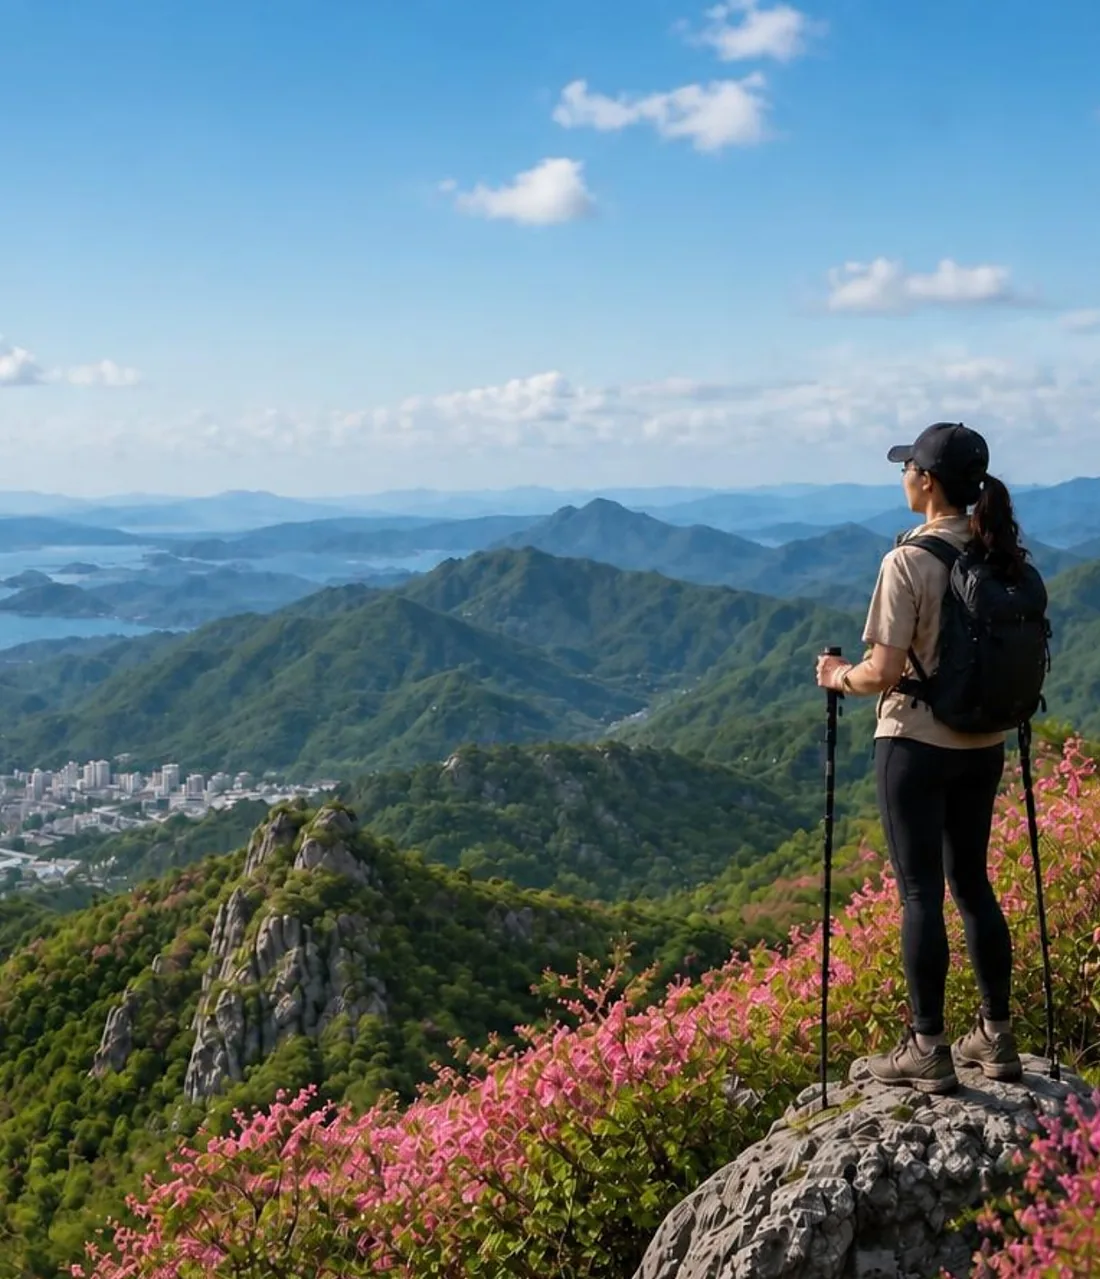
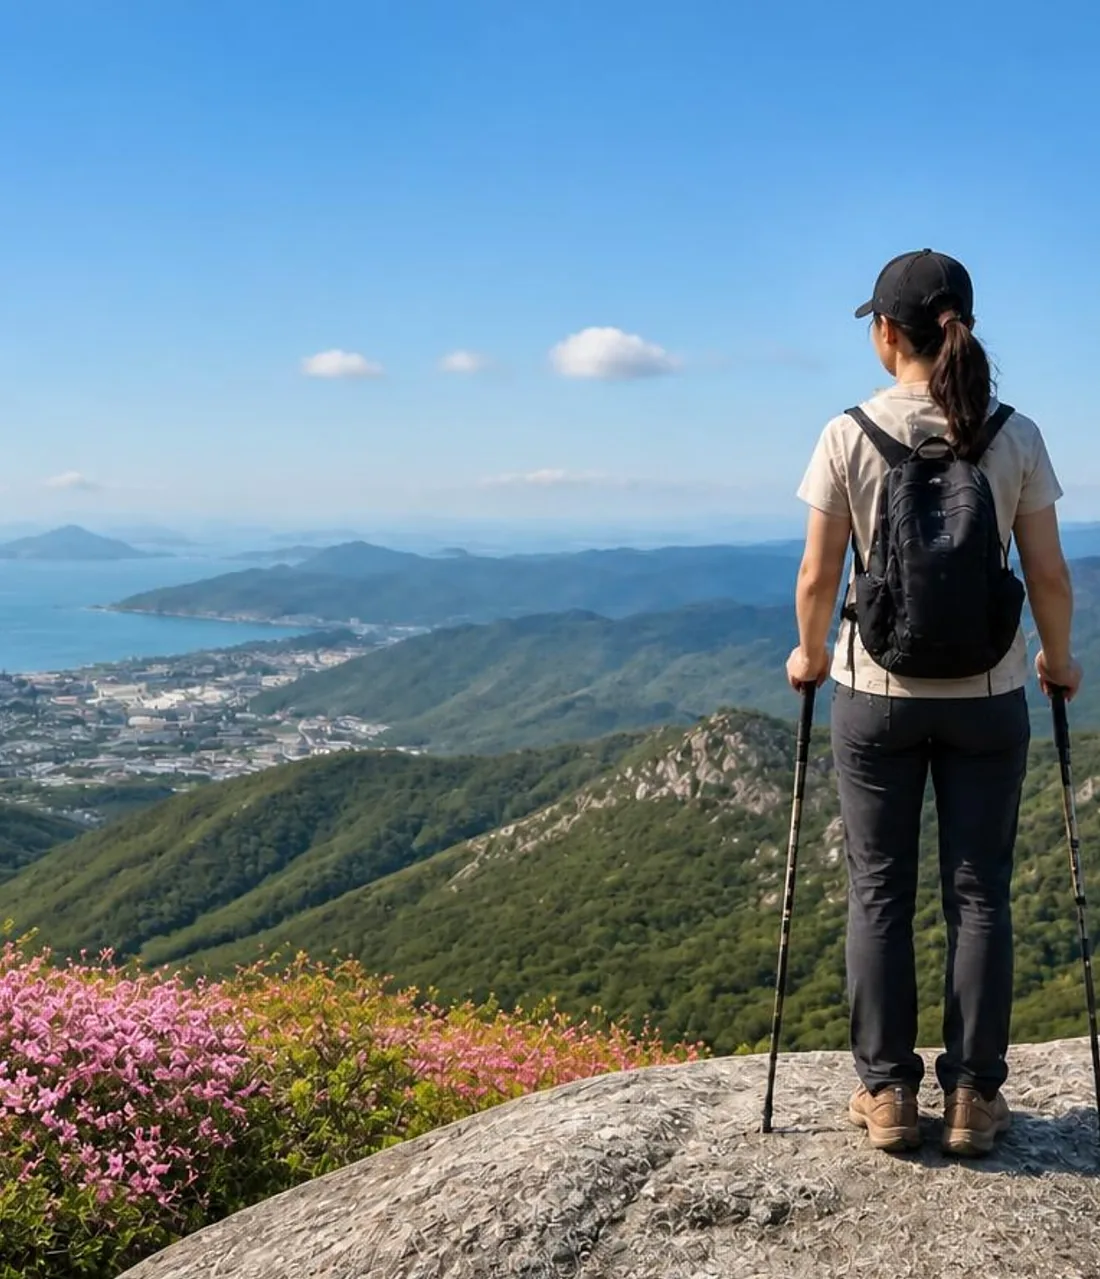
히어로 봄 낮 v11 적용 (승인 참조 기준 검수 통과) (#42)
Claude-Session: https://claude.ai/code/session_01TTPn3ts8fEyWREDupZmwxM

diff --git a/_src.html b/_src.html
@@ -13,7 +13,7 @@
 (function(){var k="";try{var d=new Date(),M=d.getMonth()+1,h=d.getHours();
 var s=M>=3&&M<=5?"spring":M>=6&&M<=8?"summer":M>=9&&M<=11?"autumn":"winter";
 var t=h>=4&&h<7?"dawn":h>=7&&h<17?"day":h>=17&&h<21?"evening":"night";k=s+"-"+t;
-var READY={"spring-dawn":1};/* 검수 통과분만 노출, 나머지는 원본 히어로 */
+var READY={"spring-dawn":1,"spring-day":1};/* 검수 통과분만 노출, 나머지는 원본 히어로 */
 window.__heroReady=READY;if(!READY[k])k="";
 var q=/[?&]hero=((?:spring|summer|autumn|winter)-(?:dawn|day|evening|night))(?:&|$)/.exec(location.search);if(q&&READY[q[1]])k=q[1];}catch(e){k="";}
 window.__hero=k;var a=k?"/img/hero/"+k:"/img/hero",b=k?"/img/hero/"+k+"-m.webp":"/img/hero-m.webp";
@@ -333,7 +333,7 @@ footer{background:var(--dark);color:rgba(255,255,255,.5);border-top:1px solid rg
       <img class="bg" id="heroImg" width="2560" height="1280" alt="산 정상 바위에 서서 다도해와 겹겹의 산줄기를 바라보는 등산객" fetchpriority="high" />
     </picture>
     <script>(function(){var k=window.__hero,i=document.getElementById("heroImg"),s=document.getElementById("heroSrc"),w=document.getElementById("bgwrap");
-var C={"spring-dawn":["#c69d96","#43383d"],"spring-day":["#89b1ce","#55594c"],"spring-evening":["#d7a373","#75522f"],"spring-night":["#08172b","#1b1515"],"summer-dawn":["#dcbba1","#5f5642"],"summer-day":["#75abe1","#3a5f55"],"summer-evening":["#c78665","#594429"],"summer-night":["#0f2951","#0c1826"],"autumn-dawn":["#9482ba","#5c4159"],"autumn-day":["#81b5db","#6b5e5b"],"autumn-evening":["#c69164","#693821"],"autumn-night":["#1b293a","#17151a"],"winter-dawn":["#a8acce","#475986"],"winter-day":["#afcfee","#77879c"],"winter-evening":["#8d7575","#4e3f4f"],"winter-night":["#182742","#1c273d"]};function fb(){s.srcset="/img/hero-m.webp";i.src="/img/hero.webp";w.style.backgroundImage="";}
+var C={"spring-dawn":["#c69d96","#43383d"],"spring-day":["#7baedb","#676254"],"spring-evening":["#d7a373","#75522f"],"spring-night":["#08172b","#1b1515"],"summer-dawn":["#dcbba1","#5f5642"],"summer-day":["#75abe1","#3a5f55"],"summer-evening":["#c78665","#594429"],"summer-night":["#0f2951","#0c1826"],"autumn-dawn":["#9482ba","#5c4159"],"autumn-day":["#81b5db","#6b5e5b"],"autumn-evening":["#c69164","#693821"],"autumn-night":["#1b293a","#17151a"],"winter-dawn":["#a8acce","#475986"],"winter-day":["#afcfee","#77879c"],"winter-evening":["#8d7575","#4e3f4f"],"winter-night":["#182742","#1c273d"]};function fb(){s.srcset="/img/hero-m.webp";i.src="/img/hero.webp";w.style.backgroundImage="";}
 if(!k){fb();return;}i.addEventListener("error",function(){if(!i.getAttribute("data-fb")){i.setAttribute("data-fb","1");fb();}});
 if(C[k])w.style.backgroundImage="linear-gradient(180deg,"+C[k][0]+","+C[k][1]+")";
 s.srcset="/img/hero/"+k+"-m.webp";i.src="/img/hero/"+k+".webp";})();</script>

diff --git a/index.html b/index.html
@@ -13,7 +13,7 @@
 (function(){var k="";try{var d=new Date(),M=d.getMonth()+1,h=d.getHours();
 var s=M>=3&&M<=5?"spring":M>=6&&M<=8?"summer":M>=9&&M<=11?"autumn":"winter";
 var t=h>=4&&h<7?"dawn":h>=7&&h<17?"day":h>=17&&h<21?"evening":"night";k=s+"-"+t;
-var READY={"spring-dawn":1};/* 검수 통과분만 노출, 나머지는 원본 히어로 */
+var READY={"spring-dawn":1,"spring-day":1};/* 검수 통과분만 노출, 나머지는 원본 히어로 */
 window.__heroReady=READY;if(!READY[k])k="";
 var q=/[?&]hero=((?:spring|summer|autumn|winter)-(?:dawn|day|evening|night))(?:&|$)/.exec(location.search);if(q&&READY[q[1]])k=q[1];}catch(e){k="";}
 window.__hero=k;var a=k?"/img/hero/"+k:"/img/hero",b=k?"/img/hero/"+k+"-m.webp":"/img/hero-m.webp";
@@ -333,7 +333,7 @@ footer{background:var(--dark);color:rgba(255,255,255,.5);border-top:1px solid rg
       <img class="bg" id="heroImg" width="2560" height="1280" alt="산 정상 바위에 서서 다도해와 겹겹의 산줄기를 바라보는 등산객" fetchpriority="high" />
     </picture>
     <script>(function(){var k=window.__hero,i=document.getElementById("heroImg"),s=document.getElementById("heroSrc"),w=document.getElementById("bgwrap");
-var C={"spring-dawn":["#c69d96","#43383d"],"spring-day":["#89b1ce","#55594c"],"spring-evening":["#d7a373","#75522f"],"spring-night":["#08172b","#1b1515"],"summer-dawn":["#dcbba1","#5f5642"],"summer-day":["#75abe1","#3a5f55"],"summer-evening":["#c78665","#594429"],"summer-night":["#0f2951","#0c1826"],"autumn-dawn":["#9482ba","#5c4159"],"autumn-day":["#81b5db","#6b5e5b"],"autumn-evening":["#c69164","#693821"],"autumn-night":["#1b293a","#17151a"],"winter-dawn":["#a8acce","#475986"],"winter-day":["#afcfee","#77879c"],"winter-evening":["#8d7575","#4e3f4f"],"winter-night":["#182742","#1c273d"]};function fb(){s.srcset="/img/hero-m.webp";i.src="/img/hero.webp";w.style.backgroundImage="";}
+var C={"spring-dawn":["#c69d96","#43383d"],"spring-day":["#7baedb","#676254"],"spring-evening":["#d7a373","#75522f"],"spring-night":["#08172b","#1b1515"],"summer-dawn":["#dcbba1","#5f5642"],"summer-day":["#75abe1","#3a5f55"],"summer-evening":["#c78665","#594429"],"summer-night":["#0f2951","#0c1826"],"autumn-dawn":["#9482ba","#5c4159"],"autumn-day":["#81b5db","#6b5e5b"],"autumn-evening":["#c69164","#693821"],"autumn-night":["#1b293a","#17151a"],"winter-dawn":["#a8acce","#475986"],"winter-day":["#afcfee","#77879c"],"winter-evening":["#8d7575","#4e3f4f"],"winter-night":["#182742","#1c273d"]};function fb(){s.srcset="/img/hero-m.webp";i.src="/img/hero.webp";w.style.backgroundImage="";}
 if(!k){fb();return;}i.addEventListener("error",function(){if(!i.getAttribute("data-fb")){i.setAttribute("data-fb","1");fb();}});
 if(C[k])w.style.backgroundImage="linear-gradient(180deg,"+C[k][0]+","+C[k][1]+")";
 s.srcset="/img/hero/"+k+"-m.webp";i.src="/img/hero/"+k+".webp";})();</script>
